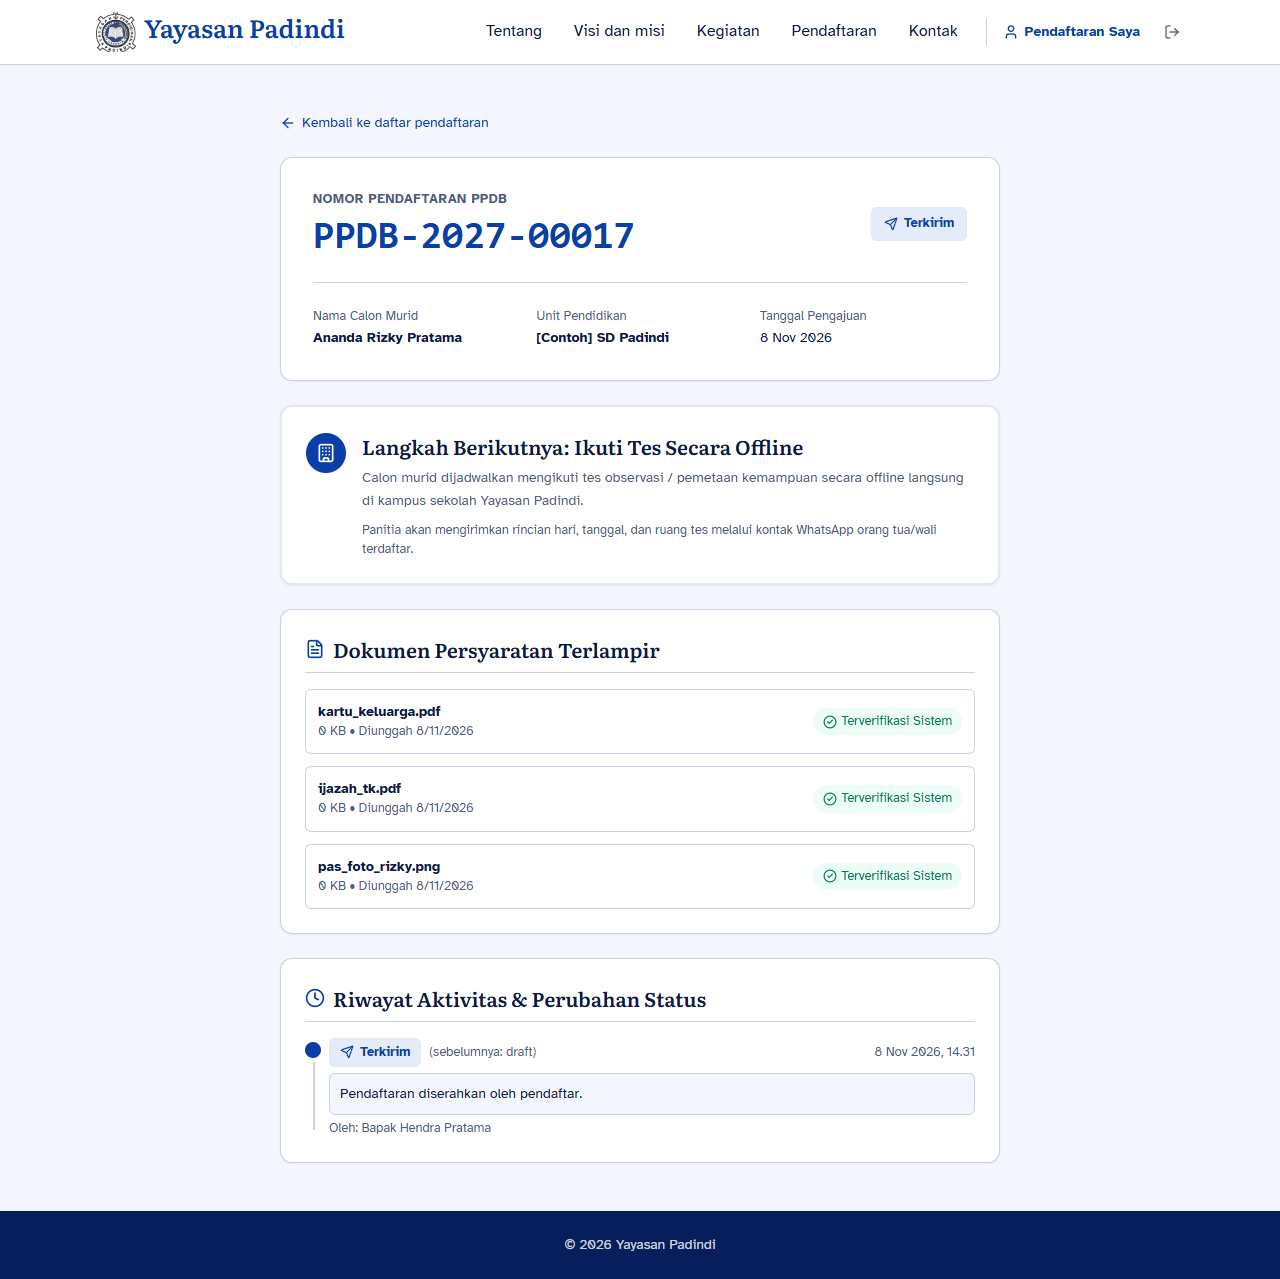
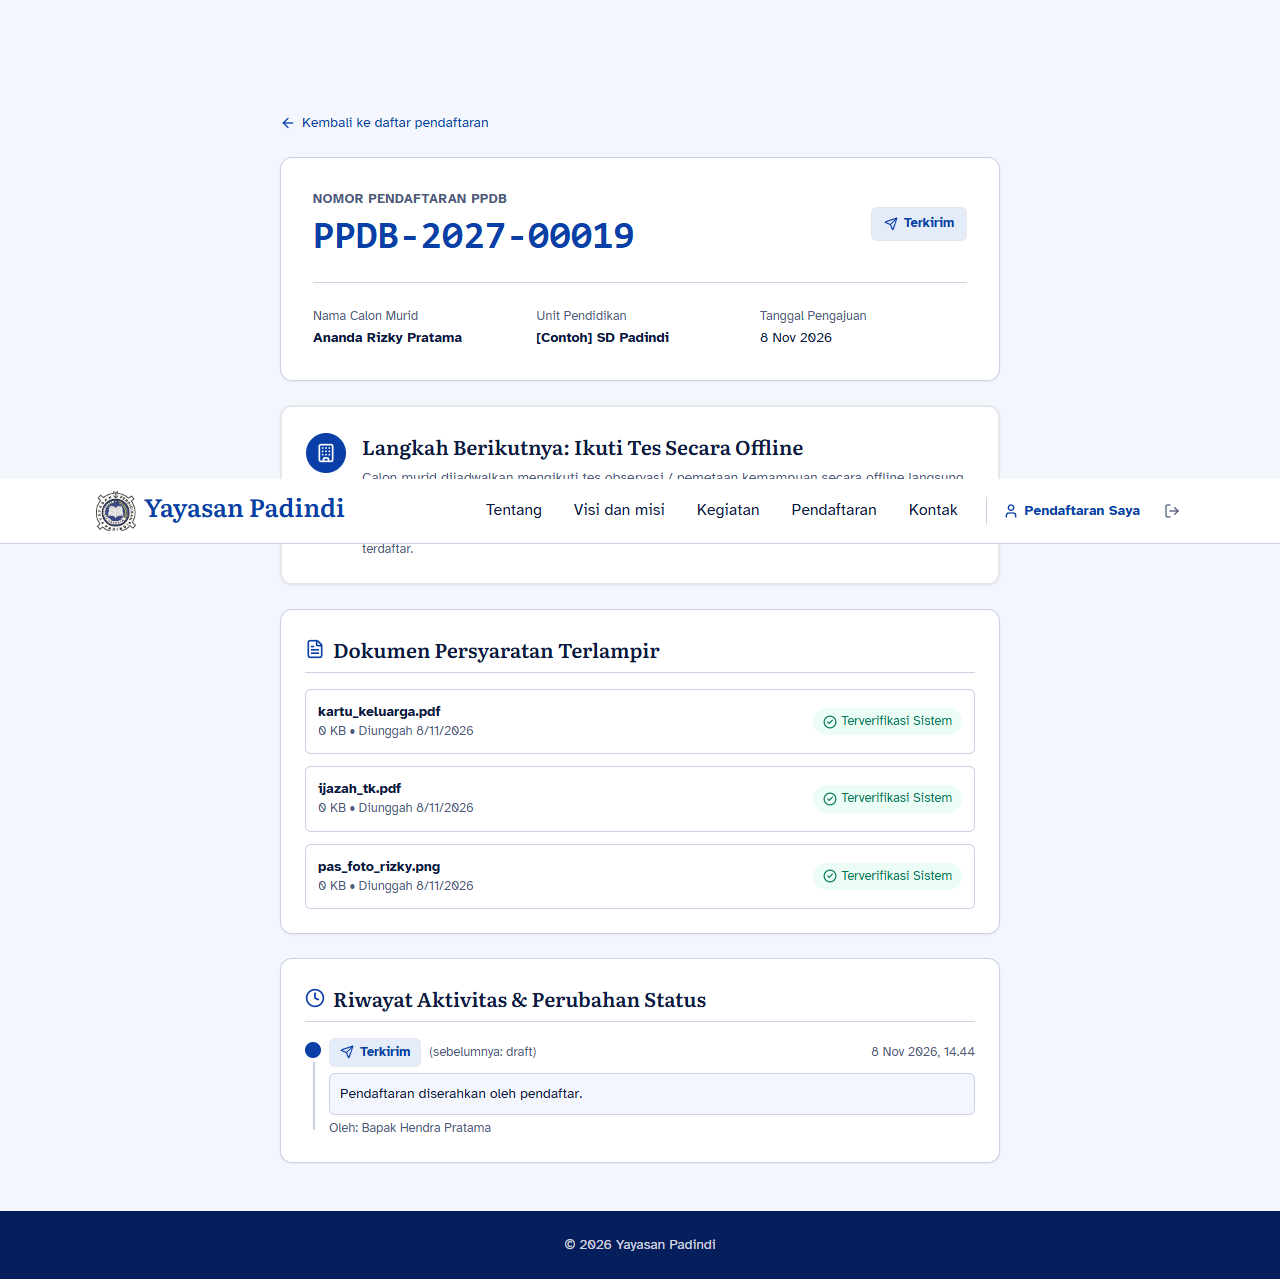
fix(ui): buat navbar/header tetap melayang di atas (sticky) saat halaman digulir

diff --git a/frontend/src/layouts/PublicLayout.tsx b/frontend/src/layouts/PublicLayout.tsx
@@ -146,7 +146,7 @@ export const PublicLayout: React.FC = () => {
   `;
 
   return (
-    <div className="min-h-screen flex flex-col bg-paper text-ink overflow-x-hidden">
+    <div className="min-h-screen flex flex-col bg-paper text-ink overflow-x-clip">
       {/* Tautan "Lompat ke konten utama" */}
       <a
         href="#main-content"
@@ -160,8 +160,8 @@ export const PublicLayout: React.FC = () => {
         Lompat ke konten utama
       </a>
 
-      {/* Navbar */}
-      <header className="bg-white border-b border-line sticky top-0 z-50">
+      {/* Navbar (Sticky Header) */}
+      <header className="bg-white border-b border-line sticky top-0 z-50 shadow-xs">
         <nav
           aria-label="Navigasi utama"
           className="max-w-content mx-auto px-4 md:px-6 lg:px-8 h-16 flex items-center justify-between"

diff --git a/frontend/src/layouts/ApplicantLayout.tsx b/frontend/src/layouts/ApplicantLayout.tsx
@@ -7,7 +7,7 @@ export const ApplicantLayout: React.FC = () => {
       <a href="#main-content" className="sr-only focus:not-sr-only focus:absolute focus:p-4 focus:bg-primary focus:text-white focus:z-50">
         Lompat ke konten utama
       </a>
-      <header className="bg-white border-b border-line">
+      <header className="bg-white border-b border-line sticky top-0 z-50 shadow-xs">
         <nav aria-label="Navigasi Pendaftar" className="max-w-content mx-auto px-4 h-16 flex items-center justify-between">
           <Link to="/akun/pendaftaran-siswa" className="font-display font-bold text-xl text-primary">Portal Pendaftar</Link>
           <div className="flex items-center gap-4">
